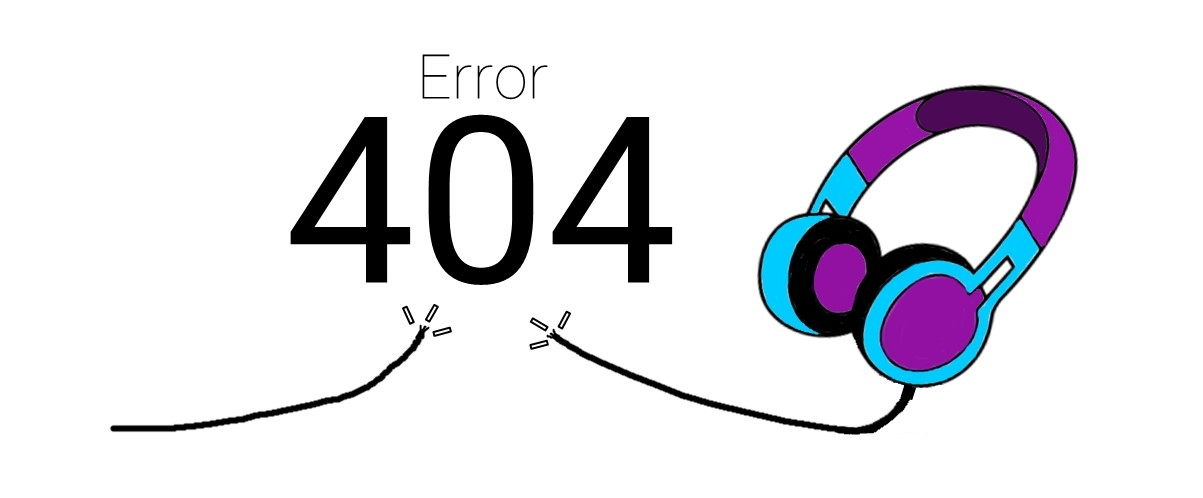
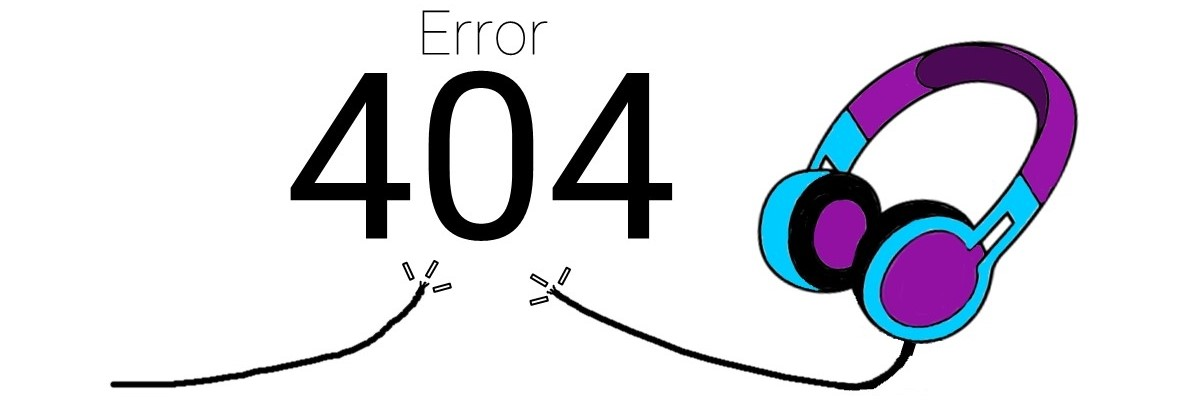
agregue la imagen de sm y md, tambien le agregue las mediaqueries

diff --git a/CSS/style.css b/CSS/style.css
@@ -6,11 +6,43 @@
  @import url('https://fonts.googleapis.com/css2?family=Cedarville+Cursive&family=Dancing+Script:wght@600&family=Heebo:wght@100;200&family=Nunito:ital,wght@1,200&family=Rubik+Iso&family=Satisfy&display=swap');
 .fondo {
     width: 80%;
-    margin-left: 15%;
+    margin-left: 12%;
 }
-
-.botonInicio {
- 
-    background: rgb(3,14,14);
-    background: linear-gradient(0deg, rgba(3,14,14,1) 0%, rgba(162,66,198,1) 100%);
+.ohno {
+   
+background: linear-gradient(rgba(137,41,177,1),rgba(95,122,255,1));
+-webkit-background-clip: text;
+color: transparent;  
+}
+.botonInicio{
+    background-color: blueviolet;
+}
+.botonDegradado:hover {
+    background: rgb(137,41,177);
+background: radial-gradient(circle, rgba(137,41,177,1) 15%, rgba(95,122,255,1) 100%);
+    
+}
+@media all and (min-width: 768px) and (max-width: 991px) {
+    #fondogr {
+        display: none;
+    }
+    #fondoch {
+        width: 60%;
+        margin-left: 20%;
+    }
+   
+}
+@media all and (min-width: 992px){
+    #fondoch {
+        display: none;
+    }
+}
+@media all and (max-width:767px){
+    #fondogr {
+        display: none;
+    }
+    #fondoch {
+        width: 70%;
+        margin-left: 20%;
+    }
 }

diff --git a/pages/error404.html b/pages/error404.html
@@ -18,12 +18,16 @@
   <body>
     <header><nav></nav></header>
     <main>
-      <img
+      <img 
+      id="fondogr"
         src="../img/FONDO.jpg"
-        class="text-center fondo"
+        class="text-center fondo mb-0"
         alt="imagen de error 404 con auriculares"
       />
-      <h1 class="text-center">¡Oh no!</h1>
+      <img id="fondoch" 
+      class="text-center"
+      src="../img/fondosm.jpg" alt="">
+      <h1 class="text-center ohno ">¡Oh no!</h1>
       <h2 class="text-center ">
         No hemos podido reproducir esta pista. Lo sentimos mucho.
       </h2>
@@ -31,9 +35,11 @@
         <h3 class="text-center">
             Para regresar al inicio presione aquí.
         </h3>
-        <div class="text-center">
-            <button type="button" class="btn btn-lg botonInicio mb-2 text-white">Volver al inicio</button>
-        </div>
+        <div class="text-center" id="boton">
+            <a href="/index.html" role="button" class="btn btn-lg botonDegradado botonInicio mb-2 text-white">Volver al inicio</a>
+        
+          </div>
+
         
  
         
